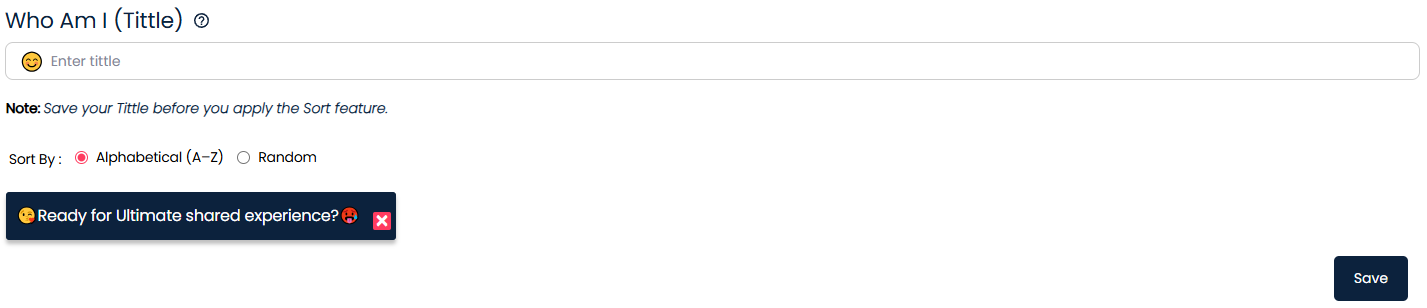
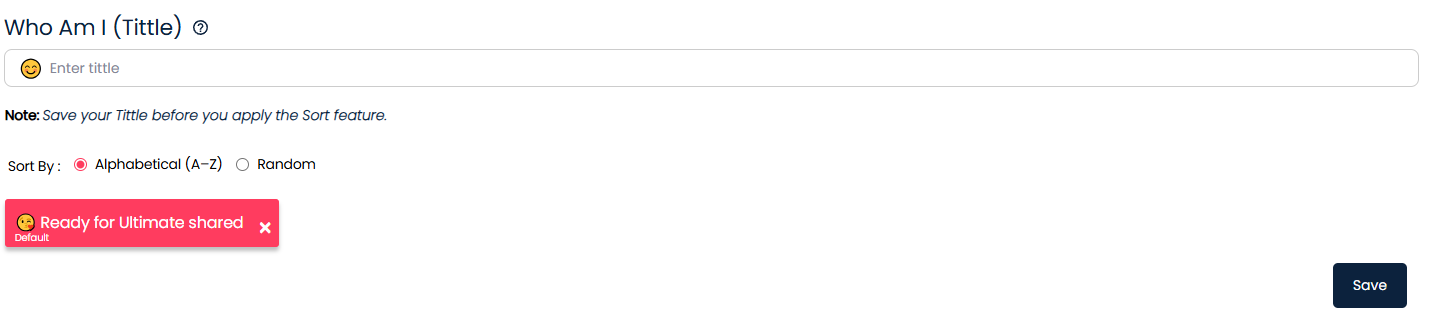
Feedback: Update How is it done

diff --git a/resources/views/escort/dashboard/HowDone/media.blade.php b/resources/views/escort/dashboard/HowDone/media.blade.php
@@ -46,7 +46,7 @@
 
                                 <h5><b>Overview</b></h5>
                                 <div class="row my-4">
-                                    <div class="col-lg-7">
+                                    <div class="col-lg-10">
                                         <p>
                                             Use this feature to store, set up your default photos, and to verify
                                             them. Verification is important as your photos, if they are
@@ -78,7 +78,7 @@
                                                 rejected.</span>
                                         </p>
                                     </div>
-                                    <div class="col-lg-5">
+                                    <div class="col-lg-2">
                                         <div class="doc-img">
                                             <img src="{{ asset('assets/app/img/e4u_verified_media.png') }}" alt=""
                                                 class="w-100 rounded-sm">
@@ -169,22 +169,22 @@
                                     <div class="col-lg-5">
                                         <div class="doc-img mb-2">
                                             <img src="{{ asset('assets/dashboard/img/how-is-done/media-photo-scr.png') }}"
-                                                alt="" class="w-100 rounded-sm">
+                                                alt="" class="w-50 w-sm-100 rounded-sm">
                                         </div>
 
                                         <div class="doc-img mt-2">
                                             <img src="{{ asset('assets/dashboard/img/media-photo-video-scr.png') }}"
-                                                alt="" class="w-100 rounded-sm">
+                                                alt="" class="w-50 w-sm-100 rounded-sm">
                                         </div>
 
                                         <div class="doc-img mt-2">
                                             <img src="{{ asset('assets/dashboard/img/how-is-done/gallery-banner.png') }}"
-                                                alt="" class="w-100 rounded-sm">
+                                                alt="" class="w-50 w-sm-100 rounded-sm">
                                         </div>
 
                                         <div class="doc-img mt-2">
                                             <img src="{{ asset('assets/dashboard/img/how-is-done/template-banner.png') }}"
-                                                alt="" class="w-100 rounded-sm">
+                                                alt="" class="w-50 w-sm-100 rounded-sm">
                                         </div>
                                     </div>
                                     <div class="col-lg-7">
@@ -246,16 +246,16 @@
                                     <div class="col-lg-5">
                                         <div class="doc-img my-2">
                                             <img src="{{ asset('assets/dashboard/img/how-is-done/gallery-banner.png') }}"
-                                                alt="" class="w-100 rounded-sm">
+                                                alt="" class="w-50 w-sm-100 rounded-sm">
                                         </div>
                                         <div class="doc-img mt-2">
                                             <img src="{{ asset('assets/dashboard/img/how-is-done/media-verify-banner.png') }}"
-                                                alt="" class="w-100 rounded-sm">
+                                                alt="" class="w-50 w-sm-100 rounded-sm">
                                         </div>
 
                                         <div class="doc-img mt-2">
                                             <img src="{{ asset('assets/dashboard/img/how-is-done/profile-image.png') }}"
-                                                alt="" class="w-100 rounded-sm">
+                                                alt="" class="w-50 w-sm-100 rounded-sm">
                                         </div>
                                     </div>
                                 </div>

diff --git a/resources/views/escort/dashboard/HowDone/my-information.blade.php b/resources/views/escort/dashboard/HowDone/my-information.blade.php
@@ -192,7 +192,7 @@
                                     </div>
                                     <div class="col-lg-5">
                                         <div class="doc-img">
-                                            <img src="{{ asset('assets/dashboard/img/how-is-done/overview-my-info.png') }}"
+                                            <img src="{{ asset('assets/dashboard/img/how-is-done/my-additional-info.png') }}"
                                                 alt="" class="w-100 rounded-sm">
                                         </div>
                                     </div>
@@ -406,7 +406,7 @@
                     </div>
 
                     <!-- My Playmates-->
-                    <div class="card">
+                    <div class="card">  
                         <div class="card-header" id="headingPlaymates">
                             <h2 class="mb-0">
                                 <a class="card-link collapsed" data-toggle="collapse" href="#collapsePlaymates"
@@ -437,7 +437,7 @@
                                     </div>
                                     <div class="col-lg-5">
                                         <div class="doc-img">
-                                            <img src="{{ asset('assets/dashboard/img/how-is-done/my-playmates.png') }}"
+                                            <img src="{{ asset('assets/dashboard/img/how-is-done/my-playmates-1.png') }}"
                                                 alt="" class="w-100 rounded-sm">
                                         </div>
                                     </div>
@@ -447,7 +447,7 @@
 
                                 <h5><b>How is it done - Playmates</b></h5>
                                 <div class="row">
-                                    <div class="col-lg-12">
+                                    <div class="col-lg-7">
                                         <p>
                                             You must enable ‘I am available as a Playmate’ for this feature to be available.
                                             Inform the
@@ -491,6 +491,12 @@
                                             You can edit your Listed Profile any time including when you are in the Profile
                                             Creator.
                                         </p>
+                                    </div>
+                                    <div class="col-lg-5">
+                                        <div class="doc-img">
+                                            <img src="{{ asset('assets/dashboard/img/how-is-done/my-playmates-new.png') }}"
+                                                alt="" class="w-100 rounded-sm">
+                                        </div>
                                     </div>
                                 </div>
 

diff --git a/resources/views/escort/dashboard/HowDone/profiles.blade.php b/resources/views/escort/dashboard/HowDone/profiles.blade.php
@@ -545,7 +545,11 @@
                                         </div>
                                         <div class="col-lg-5">
                                             <div class="doc-img">
-                                                <img src="{{ asset('assets/dashboard/img/how-is-done/my-playmates.png') }}"
+                                                <img src="{{ asset('assets/dashboard/img/how-is-done/my-playmates-new.png') }}"
+                                                    alt="" class="w-100">
+                                            </div>
+                                            <div class="doc-img">
+                                                <img src="{{ asset('assets/dashboard/img/how-is-done/playmates.png') }}"
                                                     alt="" class="w-100">
                                             </div>
                                         </div>
@@ -838,7 +842,7 @@
                                     Add BRB
                                 </h5>
                                 <div class="row">
-                                    <div class="col-lg-7">
+                                    <div class="col-lg-12">
                                         <p>
                                             If you wish not to be disturbed for a period of
                                             time, because you may be out to dinner for
@@ -873,14 +877,16 @@
                                         </p>
 
                                     </div>
-                                    <div class="col-lg-5">
+                                    <div class="col-lg-6">
                                         <div class="doc-img mt-2">
                                             <img src="{{ asset('assets/dashboard/img/how-is-done/add-brb.png') }}"
                                                 alt="" class="w-100">
                                         </div>
+                                    </div>
+                                    <div class="col-lg-6">
                                         <div class="doc-img mt-2 mb-2">
                                             <img src="{{ asset('assets/dashboard/img/how-is-done/profile-notice.png') }}"
-                                                alt="" class="w-100">
+                                                alt="" class="w-50">
                                         </div>
                                     </div>
                                 </div>

diff --git a/resources/views/escort/dashboard/HowDone/tours.blade.php b/resources/views/escort/dashboard/HowDone/tours.blade.php
@@ -114,10 +114,11 @@
                                     the
                                     dates manually, or use the calendar pop up.
                                 </p>
+                                 <h5 class="sec-head">Add Profile</h5>
                                 <div class="row">
                                     <div class="col-lg-7">
 
-                                        <h5 class="sec-head">Add Profile</h5>
+                                       
 
                                         <p>
                                             Next, add the Profile you have created for
@@ -178,10 +179,10 @@
                                 <p>
                                     When you have completed the Tour, click Save, and proceed to payment.
                                 </p>
-
+                                <h5 class="sec-head">Pin Up</h5>
                                 <div class="row">
                                     <div class="col-lg-7">
-                                        <h5 class="sec-head">Pin Up</h5>
+                                       
                                         <p>
                                             If you want to add the Pin Up feature to any
                                             of your Profiles across the Locations, go to

diff --git a/resources/views/escort/dashboard/HowDone/listings.blade.php b/resources/views/escort/dashboard/HowDone/listings.blade.php
@@ -149,7 +149,7 @@
                                 <p>
                                     After you list a Profile, the key data associated with the Profile and Listing are summarised
                                     in the report. The report is a record only so that you can look back over your Listings
-                                    historically while they are still current or Upcoming.
+                                    historically while they are still Current or Upcoming.
                                 </p>
                                 <p>
                                     Once the Listing expires, the Listing is removed from the report and relocated to Past.
